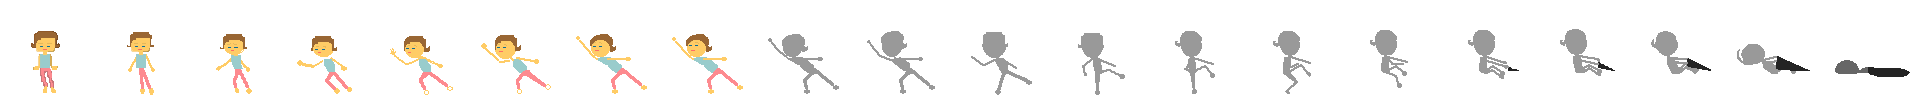
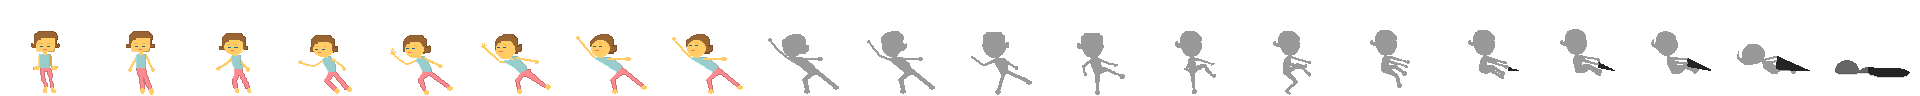
bedroom shading, little person shading and hair, todos marked off

diff --git a/README.md b/README.md
@@ -6,13 +6,7 @@
 It really should be WXVGA (854x480).  This is going to cause
 serious refactoring problems.
 
-- Shade the lean animation.
-
 - Probably lots of shading to be done and played with.
-
-- Final timing?
-
-- Little person hair
 
 - Remove opts
 
